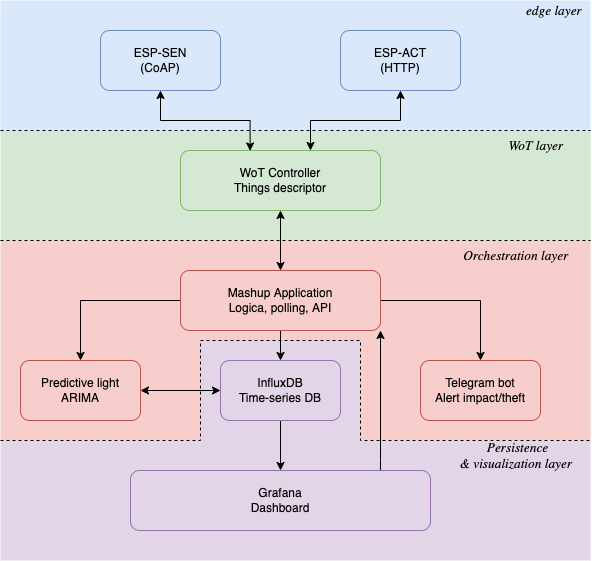
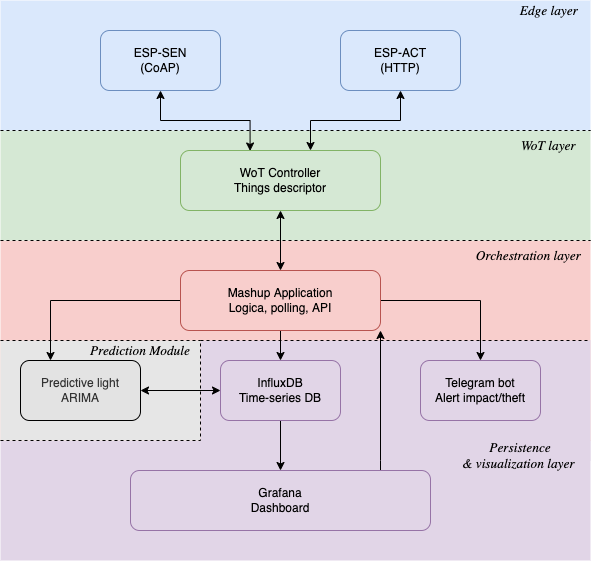
realtime gps for bot telegram è trashold light + architetture

diff --git a/wot-controller/src/adapters/espAct-adapter.js b/wot-controller/src/adapters/espAct-adapter.js
@@ -3,59 +3,60 @@ import axios from "axios";
 const DEFAULT_HOST = process.env.ESP_ACT_ADDRESS || "esp-act-mock";
 const DEFAULT_PORT = parseInt(process.env.HTTP_PORT || "80", 10);
 const DEFAULT_BASE = `http://${DEFAULT_HOST}:${DEFAULT_PORT}`;
+const REQUEST_TIMEOUT_MS = 3000; // regolabile
 
 export async function getActuatorState(base = DEFAULT_BASE) {
     try {
-		const resp = await axios.get(`${base}/state`)
-		return resp.data
-	} catch (err) {
-		handleDeviceError(err, " fetching actuator state");
-	}
+        const resp = await axios.get(`${base}/state`, { timeout: REQUEST_TIMEOUT_MS });
+        return resp.data;
+    } catch (err) {
+        handleDeviceError(err, " fetching actuator state");
+    }
 }
 
 export async function setBrightness(value, base = DEFAULT_BASE) {
-	const safeValue = Math.min(100, Math.max(0, value));
-	try {
-		const resp = await axios.post(`${base}/ambientlight`, { brightness: safeValue })
-	} catch (err) {
-		handleDeviceError(err, "setting brightness");
-	}
+    const safeValue = Math.min(100, Math.max(0, value));
+    try {
+        await axios.post(`${base}/ambientlight`, { brightness: safeValue }, { timeout: REQUEST_TIMEOUT_MS });
+    } catch (err) {
+        handleDeviceError(err, "setting brightness");
+    }
 }
 
 export async function startBlink(base = DEFAULT_BASE) {
-	try {
-		const resp = await axios.post(`${base}/impact`)
-	} catch (err) {
-		handleDeviceError(err, "triggering Impact Alarm");
-	}
+    try {
+        await axios.post(`${base}/impact`, null, { timeout: REQUEST_TIMEOUT_MS });
+    } catch (err) {
+        handleDeviceError(err, "triggering Impact Alarm");
+    }
 }
 
 export async function activateAlarm(base = DEFAULT_BASE) {
-	try {
-		const resp = await axios.post(`${base}/theft`)
-	} catch (err) {
-		handleDeviceError(err, "activating Theft Alarm");
-	}
+    try {
+        await axios.post(`${base}/theft`, null, { timeout: REQUEST_TIMEOUT_MS });
+    } catch (err) {
+        handleDeviceError(err, "activating Theft Alarm");
+    }
 }
 
 export async function resetAlarms(base = DEFAULT_BASE) {
-	try {
-		const resp = await axios.post(`${base}/reset`)
-	} catch (err) {
-		handleDeviceError(err, "resetting alarms");
-	}
+    try {
+        await axios.post(`${base}/reset`, null, { timeout: REQUEST_TIMEOUT_MS });
+    } catch (err) {
+        handleDeviceError(err, "resetting alarms");
+    }
 }
 
 function handleDeviceError(err, actionDescription) {
     if (err.response) {
-        // The ESP32 received the request but returned an error
         const deviceMsg = err.response.data?.message || 'No additional info';
         throw new Error(`ESP32 Error (${actionDescription}): Device returned ${err.response.status} - ${deviceMsg}`);
+    } else if (err.code === "ECONNABORTED") {
+        // axios usa questo codice specifico quando scatta il timeout
+        throw new Error(`ESP32 Error (${actionDescription}): Device timed out after ${REQUEST_TIMEOUT_MS}ms.`);
     } else if (err.request) {
-        // The request was sent, but the ESP32 never replied
-        throw new Error(`ESP32 Error (${actionDescription}): Device is unreachable, offline, or timed out.`);
+        throw new Error(`ESP32 Error (${actionDescription}): Device is unreachable or offline.`);
     } else {
-        // Something else went wrong
         throw new Error(`ESP32 Error (${actionDescription}): ${err.message}`);
     }
 }

diff --git a/mashup-app/src/services/telegramService.js b/mashup-app/src/services/telegramService.js
@@ -1,4 +1,4 @@
-import { Bot } from "node-telegram-bot-api";
+import { Bot } from "node-telegram-bot-api"; // in realtà grammY sotto questo alias
 import { config } from "../config.js";
 
 const token = config.telegram.botToken;
@@ -13,15 +13,48 @@ if (token && chatId) {
     console.warn("[telegramService] TELEGRAM_BOT_TOKEN/CHAT_ID missing: alerts are disabled");
 }
 
-/**
- * Invia una notifica di testo alla chat configurata.
- * Fire-and-forget: non deve mai bloccare o far fallire la logica di allarme.
- */
 export async function sendAlertToBot(message) {
     if (!bot) return;
     try {
         await bot.api.sendMessage({ chat_id: chatId, text: `${message}` });
     } catch (err) {
         console.error("[telegramService] failed to send message:", err.message);
+    }
+}
+
+let liveLocationMessageId = null;
+
+export async function reportPosition(lat, lon, livePeriodSeconds = 3600) {
+    if (!bot) return;
+    try {
+        if (liveLocationMessageId === null) {
+            const message = await bot.api.sendLocation({
+                chat_id: chatId,
+                latitude: lat,
+                longitude: lon,
+                live_period: livePeriodSeconds,
+            });
+            liveLocationMessageId = message.message_id;
+        } else {
+            await bot.api.editMessageLiveLocation({
+                chat_id: chatId,
+                message_id: liveLocationMessageId,
+                latitude: lat,
+                longitude: lon,
+            });
+        }
+    } catch (err) {
+        console.error("[telegramService] failed to report position:", err.message);
+    }
+}
+
+export async function stopLiveLocation() {
+    if (!bot || liveLocationMessageId === null) return;
+    try {
+        await bot.api.stopMessageLiveLocation({ chat_id: chatId, message_id: liveLocationMessageId });
+    } catch (err) {
+        console.error("[telegramService] failed to stop live location:", err.message);
+    } finally {
+        liveLocationMessageId = null;
     }
 }

diff --git a/mashup-app/src/logic/alarmHandler.js b/mashup-app/src/logic/alarmHandler.js
@@ -6,7 +6,7 @@ alarmEvent e' gia' un evento wot -> no polling, si subscribing
  */
 
 import { writeEvent, writePosition } from "../services/influxService.js";
-import { sendAlertToBot } from "../services/telegramService.js";
+import { sendAlertToBot, reportPosition } from "../services/telegramService.js";
 
 export function registerAlarmHandler(sensor, actuator) {
     sensor.subscribeEvent("alarmEvent", async (data) => {
@@ -29,6 +29,7 @@ export function registerAlarmHandler(sensor, actuator) {
                 // posizione arriva (ogni ~5s) finche' il furto non
                 // viene resettato via sensor.invokeAction("resetTracking").
                 await writePosition(event);
+                await reportPosition(event.lat, event.lon);
             }
             } catch (err) {
                 console.error("[ALARM] Error handling alarm event:", err.message);

diff --git a/mashup-app/src/api/server.js b/mashup-app/src/api/server.js
@@ -1,6 +1,6 @@
 import express from "express";
 import {config} from "../config.js";
-
+import { stopLiveLocation } from "../services/telegramService.js"
 
 /**
  * Avvia il server HTTP del mashup-app.
@@ -44,7 +44,7 @@ export function startApiServer(sensor, actuator, port = config.expressSrv) {
                     errors,
                 });
             }
-
+            stopLiveLocation();
             res.json({ status: "ok", message: "Alarm reset triggered" });
         } catch (err) {
             console.error("[API] Errore durante il reset:", err.message);

diff --git a/esp/esp-sen/sensing/main/main.c b/esp/esp-sen/sensing/main/main.c
@@ -37,7 +37,7 @@ static SemaphoreHandle_t g_theft_mutex;
 // photoresistor stuff
 #define LIGHT_SENS ADC1_CHANNEL_6
 #define LIGHT_RAW_MIN             0
-#define LIGHT_RAW_MAX             3800
+#define LIGHT_RAW_MAX             4095
 static float g_light_percent = 0.0f;
 static int g_light_raw = 0;
 SemaphoreHandle_t g_light_mutex;
